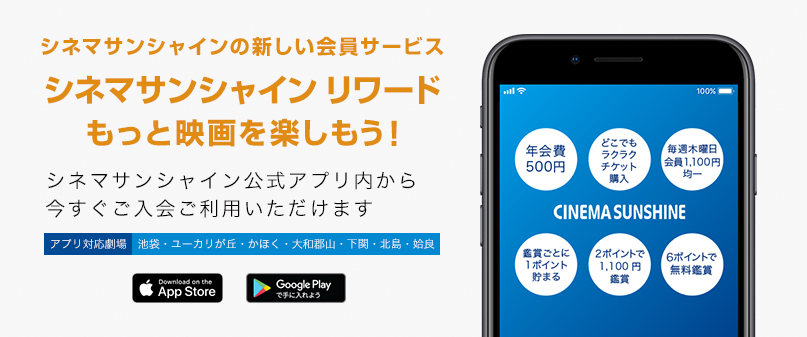
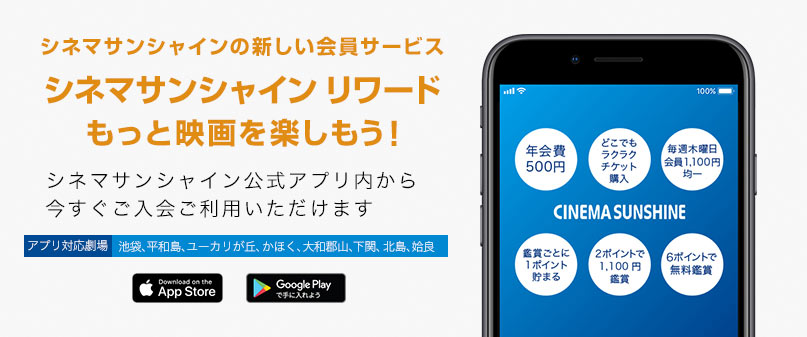
平和島_チケッティング導入更新

diff --git a/public/js/theater/top.js b/public/js/theater/top.js
@@ -35,6 +35,7 @@ $(function () {
 function isAppCompatibleTheater() {
     var compatibleTheaters = [
         'ikebukuro',
+        'heiwajima',
         'yukarigaoka',
         'kahoku',
         'yamatokoriyama',
